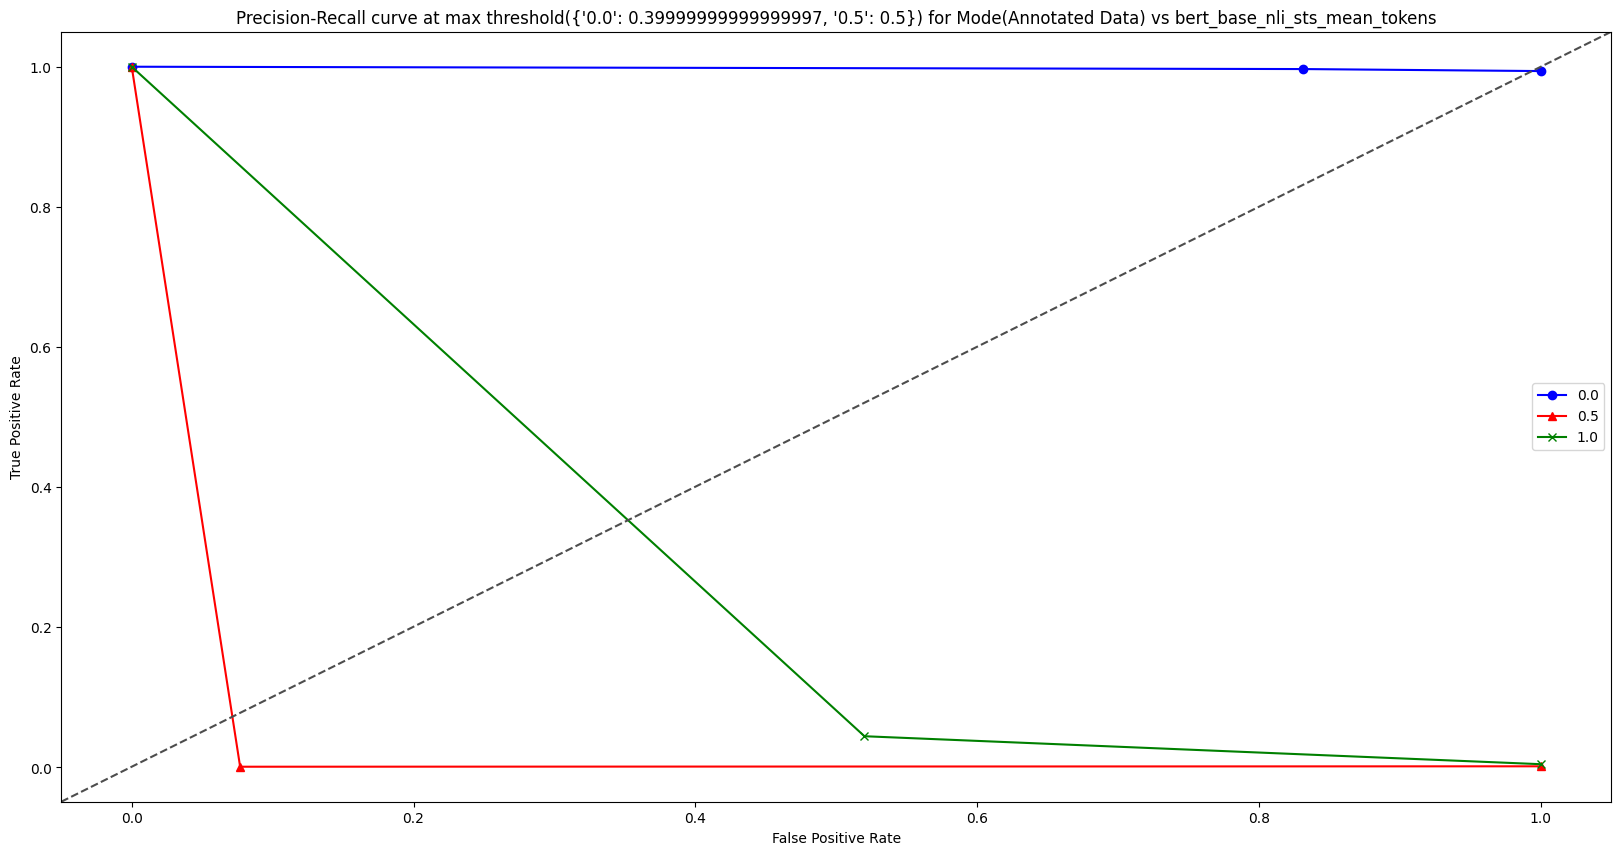
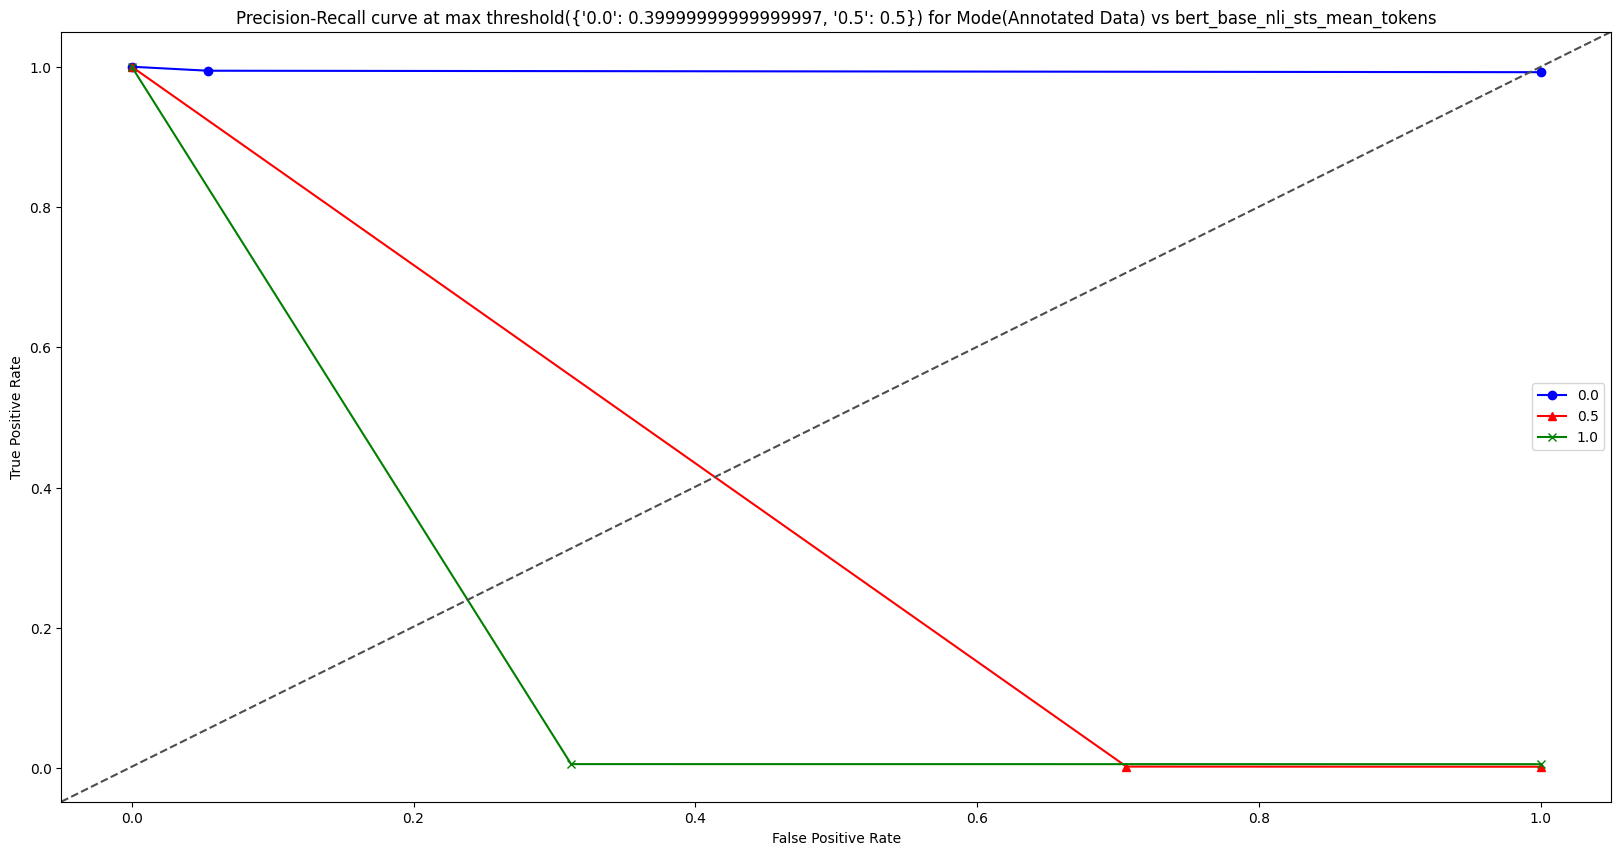
results again

diff --git a/Implementation/AnnotatedDataHandler.py b/Implementation/AnnotatedDataHandler.py
@@ -1,4 +1,5 @@
 import csv
+import os
 from scipy.stats import pearsonr
 from sklearn.metrics import cohen_kappa_score, accuracy_score, classification_report, multilabel_confusion_matrix, \
     confusion_matrix, roc_curve, roc_auc_score, precision_recall_curve
@@ -54,6 +55,7 @@ class AnnotatedDataHandler:
         self.annotator4Data = []
 
         # Computational accessories
+        self.result_indexes = ["0.0-1.0", "0.1-0.9", "0.2-0.8", "0.3-0.7", "0.4-0.6", "0.5-0.5", "0.6-0.4", "0.7-0.3", "0.8-0.2", "0.9-0.1"]
         self.result_file_index = "0.0-1.0"
         self.computational_iteration = "1.4"
         self.computed_method = ["fuzzy_wuzzy", "bert_large_nli_sts_mean_tokens_syn_and_sem",
@@ -85,6 +87,8 @@ class AnnotatedDataHandler:
         self.classes = [self.class_unrelated, self.class_related, self.class_equal]
         self.marker_set = ["o", "^", "x"]
         self.color_set = ["blue", "red", "green"]
+        # Directories
+        self.resultDir = "Results/charts/" + str(self.computational_iteration) +"/"
 
     def initDataStructures(self):
         self.annotator1Data = []
@@ -314,66 +318,66 @@ class AnnotatedDataHandler:
     def read_computed_data_from_bert_base_mean_tokens(self, readHeaders=False):
         if not readHeaders:
             self.bert_base_mean_tokens_computed_data = annotatedDataHandler.readCSVWithoutHeaders(
-                'Data/' + self.computational_iteration + "/" + str(self.BERT_BASE_NLI_MEAN_TOKENS_INDEX) + '-table-V' + str(self.result_file_index) + '.csv',
+                'Data/' + self.computational_iteration + "/" + str(self.BERT_BASE_NLI_MEAN_TOKENS_INDEX) + '-table-V-' + str(self.result_file_index) + '.csv',
                 True)
         else:
             self.bert_base_mean_tokens_computed_data = annotatedDataHandler.readCSV(
-                'Data/' + self.computational_iteration + "/" + str(self.BERT_BASE_NLI_MEAN_TOKENS_INDEX) + '-table-V' + str(self.result_file_index) + '.csv',
+                'Data/' + self.computational_iteration + "/" + str(self.BERT_BASE_NLI_MEAN_TOKENS_INDEX) + '-table-V-' + str(self.result_file_index) + '.csv',
                 True)
         return self.bert_base_mean_tokens_computed_data
 
     def read_computed_data_from_bert_base_mean_tokens_syn_and_sem(self, readHeaders=False):
         if not readHeaders:
             self.bert_base_mean_tokens_syn_and_sem_computed_data = annotatedDataHandler.readCSVWithoutHeaders(
-                'Data/' + self.computational_iteration + "/" + str(self.BERT_BASE_NLI_MEAN_TOKENS_SYN_AND_SEM_INDEX) + '-table-V' + str(
+                'Data/' + self.computational_iteration + "/" + str(self.BERT_BASE_NLI_MEAN_TOKENS_SYN_AND_SEM_INDEX) + '-table-V-' + str(
                     self.result_file_index) + '.csv', True)
         else:
             self.bert_base_mean_tokens_syn_and_sem_computed_data = annotatedDataHandler.readCSV(
-                'Data/' + self.computational_iteration + "/" + str(self.BERT_BASE_NLI_MEAN_TOKENS_SYN_AND_SEM_INDEX) + '-table-V' + str(
+                'Data/' + self.computational_iteration + "/" + str(self.BERT_BASE_NLI_MEAN_TOKENS_SYN_AND_SEM_INDEX) + '-table-V-' + str(
                     self.result_file_index) + '.csv', True)
         return self.bert_base_mean_tokens_syn_and_sem_computed_data
 
     def read_computed_data_from_bert_base_sts_mean_tokens(self, readHeaders=False, thresholdValues={}):
         if not readHeaders:
             self.bert_base_sts_mean_tokens_computed_data = annotatedDataHandler.readCSVWithoutHeaders(
-                'Data/' + self.computational_iteration + "/" + str(self.BERT_BASE_NLI_STSB_MEAN_TOKENS_INDEX) + '-table-V' + str(
+                'Data/' + self.computational_iteration + "/" + str(self.BERT_BASE_NLI_STSB_MEAN_TOKENS_INDEX) + '-table-V-' + str(
                     self.result_file_index) + '.csv', True)
         else:
             self.bert_base_sts_mean_tokens_computed_data = annotatedDataHandler.readCSV(
-                'Data/' + self.computational_iteration + "/" + str(self.BERT_BASE_NLI_STSB_MEAN_TOKENS_INDEX) + '-table-V' + str(
+                'Data/' + self.computational_iteration + "/" + str(self.BERT_BASE_NLI_STSB_MEAN_TOKENS_INDEX) + '-table-V-' + str(
                     self.result_file_index) + '.csv', True)
         return self.bert_base_sts_mean_tokens_computed_data
 
     def read_computed_data_from_bert_base_sts_mean_tokens_syn_and_sem(self, readHeaders=False):
         if not readHeaders:
             self.bert_base_sts_mean_tokens_syn_and_sem_computed_data = annotatedDataHandler.readCSVWithoutHeaders(
-                'Data/' + self.computational_iteration + "/" + str(self.BERT_BASE_NLI_STSB_MEAN_TOKENS_SYN_AND_SEM_INDEX) + '-table-V' + str(
+                'Data/' + self.computational_iteration + "/" + str(self.BERT_BASE_NLI_STSB_MEAN_TOKENS_SYN_AND_SEM_INDEX) + '-table-V-' + str(
                     self.result_file_index) + '.csv', True)
         else:
             self.bert_base_sts_mean_tokens_syn_and_sem_computed_data = annotatedDataHandler.readCSV(
-                'Data/' + self.computational_iteration + "/" + str(self.BERT_BASE_NLI_STSB_MEAN_TOKENS_SYN_AND_SEM_INDEX) + '-table-V' + str(
+                'Data/' + self.computational_iteration + "/" + str(self.BERT_BASE_NLI_STSB_MEAN_TOKENS_SYN_AND_SEM_INDEX) + '-table-V-' + str(
                     self.result_file_index) + '.csv', True)
         return self.bert_base_sts_mean_tokens_syn_and_sem_computed_data
 
     def read_computed_data_from_bert_large_sts_mean_tokens(self, readHeaders=False):
         if not readHeaders:
             self.bert_large_sts_mean_tokens_computed_data = annotatedDataHandler.readCSVWithoutHeaders(
-                'Data/' + self.computational_iteration + "/" + str(self.BERT_LARGE_NLI_STSB_MEAN_TOKENS_INDEX) + '-table-V' + str(
+                'Data/' + self.computational_iteration + "/" + str(self.BERT_LARGE_NLI_STSB_MEAN_TOKENS_INDEX) + '-table-V-' + str(
                     self.result_file_index) + '.csv', True)
         else:
             self.bert_large_sts_mean_tokens_computed_data = annotatedDataHandler.readCSV(
-                'Data/' + self.computational_iteration + "/" + str(self.BERT_LARGE_NLI_STSB_MEAN_TOKENS_INDEX) + '-table-V' + str(
+                'Data/' + self.computational_iteration + "/" + str(self.BERT_LARGE_NLI_STSB_MEAN_TOKENS_INDEX) + '-table-V-' + str(
                     self.result_file_index) + '.csv', True)
         return self.bert_large_sts_mean_tokens_computed_data
 
     def read_computed_data_from_bert_large_sts_mean_tokens_syn_and_sem(self, readHeaders=False):
         if not readHeaders:
             self.bert_large_sts_mean_tokens_syn_and_sem_computed_data = annotatedDataHandler.readCSVWithoutHeaders(
-                'Data/' + self.computational_iteration + "/" + str(self.BERT_LARGE_NLI_STSB_MEAN_TOKENS_SYN_AND_SEM_INDEX) + '-table-V' + str(
+                'Data/' + self.computational_iteration + "/" + str(self.BERT_LARGE_NLI_STSB_MEAN_TOKENS_SYN_AND_SEM_INDEX) + '-table-V-' + str(
                     self.result_file_index) + '.csv', True)
         else:
             self.bert_large_sts_mean_tokens_syn_and_sem_computed_data = annotatedDataHandler.readCSV(
-                'Data/' + self.computational_iteration + "/" + str(self.BERT_LARGE_NLI_STSB_MEAN_TOKENS_SYN_AND_SEM_INDEX) + '-table-V' + str(
+                'Data/' + self.computational_iteration + "/" + str(self.BERT_LARGE_NLI_STSB_MEAN_TOKENS_SYN_AND_SEM_INDEX) + '-table-V-' + str(
                     self.result_file_index) + '.csv', True)
         return self.bert_large_sts_mean_tokens_syn_and_sem_computed_data
 
@@ -745,8 +749,9 @@ class AnnotatedDataHandler:
         data_in_2d = self.read_computed_data_from[methodIndex](True)
         data_in_1d = annotatedDataHandler.collapseDataSetTo1d(data_in_2d)
 
-        development_x = [float(data_in_1d[i]) for i in dataset['dev_x_index']]
-        test_x = [float(data_in_1d[i]) for i in dataset['test_x_index']]
+        # development_x = [float(data_in_1d[i]) for i in dataset['dev_x_index']]
+        development_x = [data_in_1d[i] for i in dataset['dev_x_index']]
+        test_x = [data_in_1d[i] for i in dataset['test_x_index']]
         development_y = dataset['dev_y']
         test_y = dataset['test_y']
 
@@ -820,10 +825,12 @@ class AnnotatedDataHandler:
         predicted_test_x = [self.convertComputedAttrValue(similarity_score, max_roc_threshold) for similarity_score in
                                    test_x]
 
-        self.plot_roc(test_y, predicted_test_x, 'ROC at max threshold(' + str(max_roc_threshold) +
+        self.plot_roc(test_y, predicted_test_x, 'ROC at max threshold(' + str(max_roc_threshold[self.class_unrelated]) +
+                        + "_" + str(max_roc_threshold[self.class_related]) +
                       ') for Mode(Annotated Data) vs ' + self.computed_method[methodIndex])
 
-        self.plot_prc(test_y, predicted_test_x, 'Precision-Recall curve at max threshold(' + str(max_roc_threshold) +
+        self.plot_prc(test_y, predicted_test_x, 'Precision-Recall curve at max threshold(' + str(max_roc_threshold['0.1']) +
+                        + "_" + str(max_roc_threshold['0.5']) +
                       ') for Mode(Annotated Data) vs ' + self.computed_method[methodIndex])
 
         # annotatedDataHandler.plot_scatter_for_mcc_vs_f1(ovr_conditions, 'MCC vs F1 for Mode(Annotated Data) vs ' +
@@ -859,7 +866,8 @@ class AnnotatedDataHandler:
         plt.legend()
         # # plt.show()
         self.log("saving plot:" + plotTitle)
-        fig.savefig("Results/charts/"+ str(self.result_file_index) +"/" + self.get_valid_filename(plotTitle), bbox_inches='tight')
+
+        fig.savefig(self.resultDir + self.get_valid_filename(plotTitle), bbox_inches='tight')
         plt.close(fig)
         # show the legend
         # pyplot.legend()
@@ -891,7 +899,7 @@ class AnnotatedDataHandler:
         plt.legend()
         # # plt.show()
         self.log("saving plot:" + plotTitle)
-        fig.savefig("Results/charts/" + self.get_valid_filename(plotTitle), bbox_inches='tight')
+        fig.savefig(self.resultDir + self.get_valid_filename(plotTitle), bbox_inches='tight')
         plt.close(fig)
         # show the legend
         # pyplot.legend()
@@ -943,7 +951,7 @@ class AnnotatedDataHandler:
         plt.legend()
         # plt.show()
         self.log("saving plot:" + plotTitle)
-        fig.savefig("Results/charts/" + self.get_valid_filename(plotTitle), bbox_inches='tight')
+        fig.savefig(self.resultDir + self.get_valid_filename(plotTitle), bbox_inches='tight')
         plt.close(fig)
 
     # Plot precision
@@ -992,7 +1000,7 @@ class AnnotatedDataHandler:
         plt.legend()
         # plt.show()
         self.log("saving plot:" + plotTitle)
-        fig.savefig("Results/charts/" + self.get_valid_filename(plotTitle), bbox_inches='tight')
+        fig.savefig(self.resultDir + self.get_valid_filename(plotTitle), bbox_inches='tight')
         plt.close(fig)
 
     # Plot precision vs recall
@@ -1028,7 +1036,7 @@ class AnnotatedDataHandler:
         plt.legend()
         # plt.show()
         self.log("saving plot:" + plotTitle)
-        fig.savefig("Results/charts/" + self.get_valid_filename(plotTitle), bbox_inches='tight')
+        fig.savefig(self.resultDir + self.get_valid_filename(plotTitle), bbox_inches='tight')
         plt.close(fig)
 
     def plot_scatter_for_mcc_vs_f1(self, condition_from_experimental_iterations, plotTitle):
@@ -1058,7 +1066,7 @@ class AnnotatedDataHandler:
         plt.legend()
         # plt.show()
         self.log("saving plot:" + plotTitle)
-        fig.savefig("Results/charts/" + self.get_valid_filename(plotTitle), bbox_inches='tight')
+        fig.savefig(self.resultDir + self.get_valid_filename(plotTitle), bbox_inches='tight')
         plt.close(fig)
 
 
@@ -1078,9 +1086,18 @@ dataset = {}
 dataset['dev_x_index'], dataset['test_x_index'], dataset['dev_y'], dataset['test_y'] = train_test_split(
             range(len(flatAnnotatedData)), flatAnnotatedData, test_size=0.4)
 
-for method_index, method_name in enumerate(annotatedDataHandler.computed_method):
-    # data_in_2d = self.read_computed_data_from[methodIndex](True)
-    # data_in_1d = annotatedDataHandler.collapseDataSetTo1d(data_in_2d)
+resultParentDir = annotatedDataHandler.resultDir
 
-    annotatedDataHandler.evaluateMethod(dataset, method_index)
-    # annotatedDataHandler.evaluateDefaultMethod(flatAnnotatedData, method_index)
+for syn_sem_threshold in annotatedDataHandler.result_indexes:
+    annotatedDataHandler.log(["Now processing:", syn_sem_threshold])
+    annotatedDataHandler.result_file_index = syn_sem_threshold
+    annotatedDataHandler.resultDir = resultParentDir + str(syn_sem_threshold) + "/"
+    # Make sure the folder for results exists
+    if not os.path.exists(annotatedDataHandler.resultDir):
+        os.makedirs(annotatedDataHandler.resultDir)
+
+    for method_index, method_name in enumerate(annotatedDataHandler.computed_method):
+        # data_in_2d = self.read_computed_data_from[methodIndex](True)
+        # data_in_1d = annotatedDataHandler.collapseDataSetTo1d(data_in_2d)
+        annotatedDataHandler.evaluateMethod(dataset, method_index)
+        # annotatedDataHandler.evaluateDefaultMethod(flatAnnotatedData, method_index)
